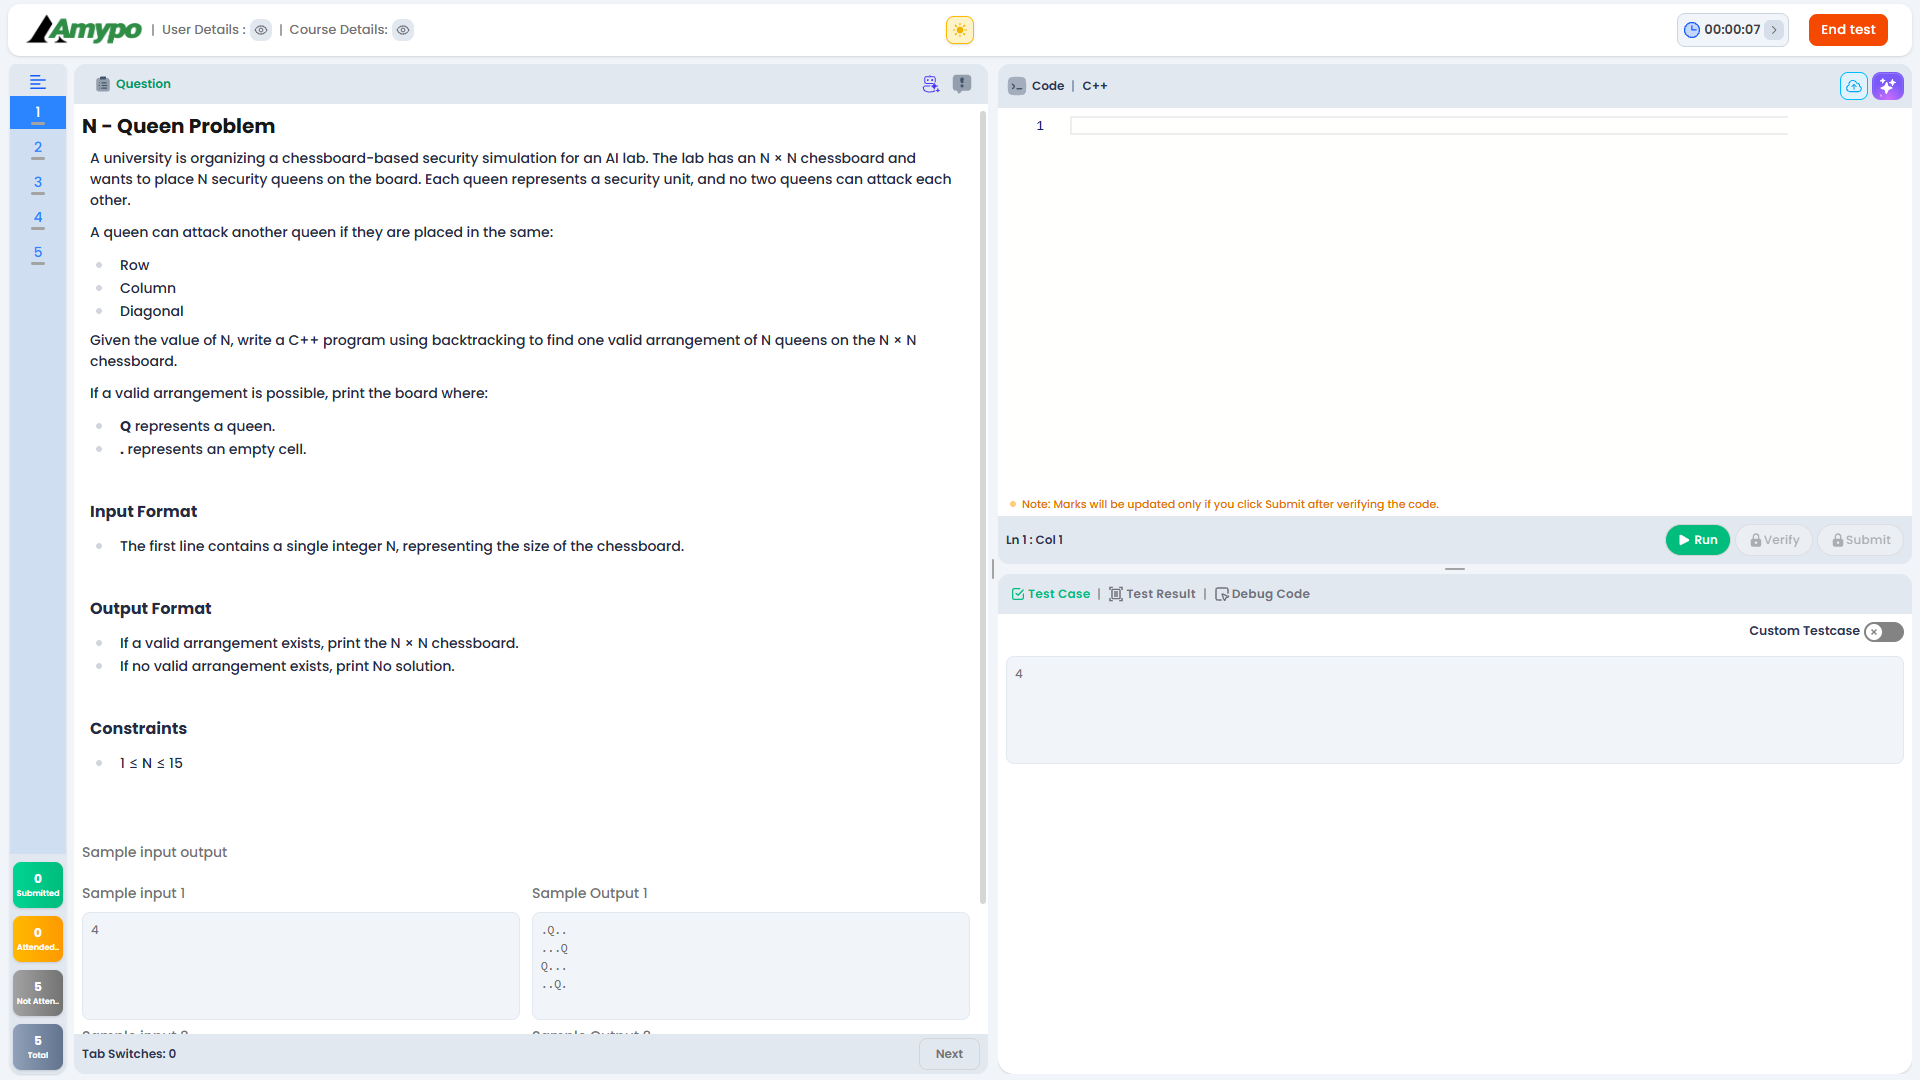
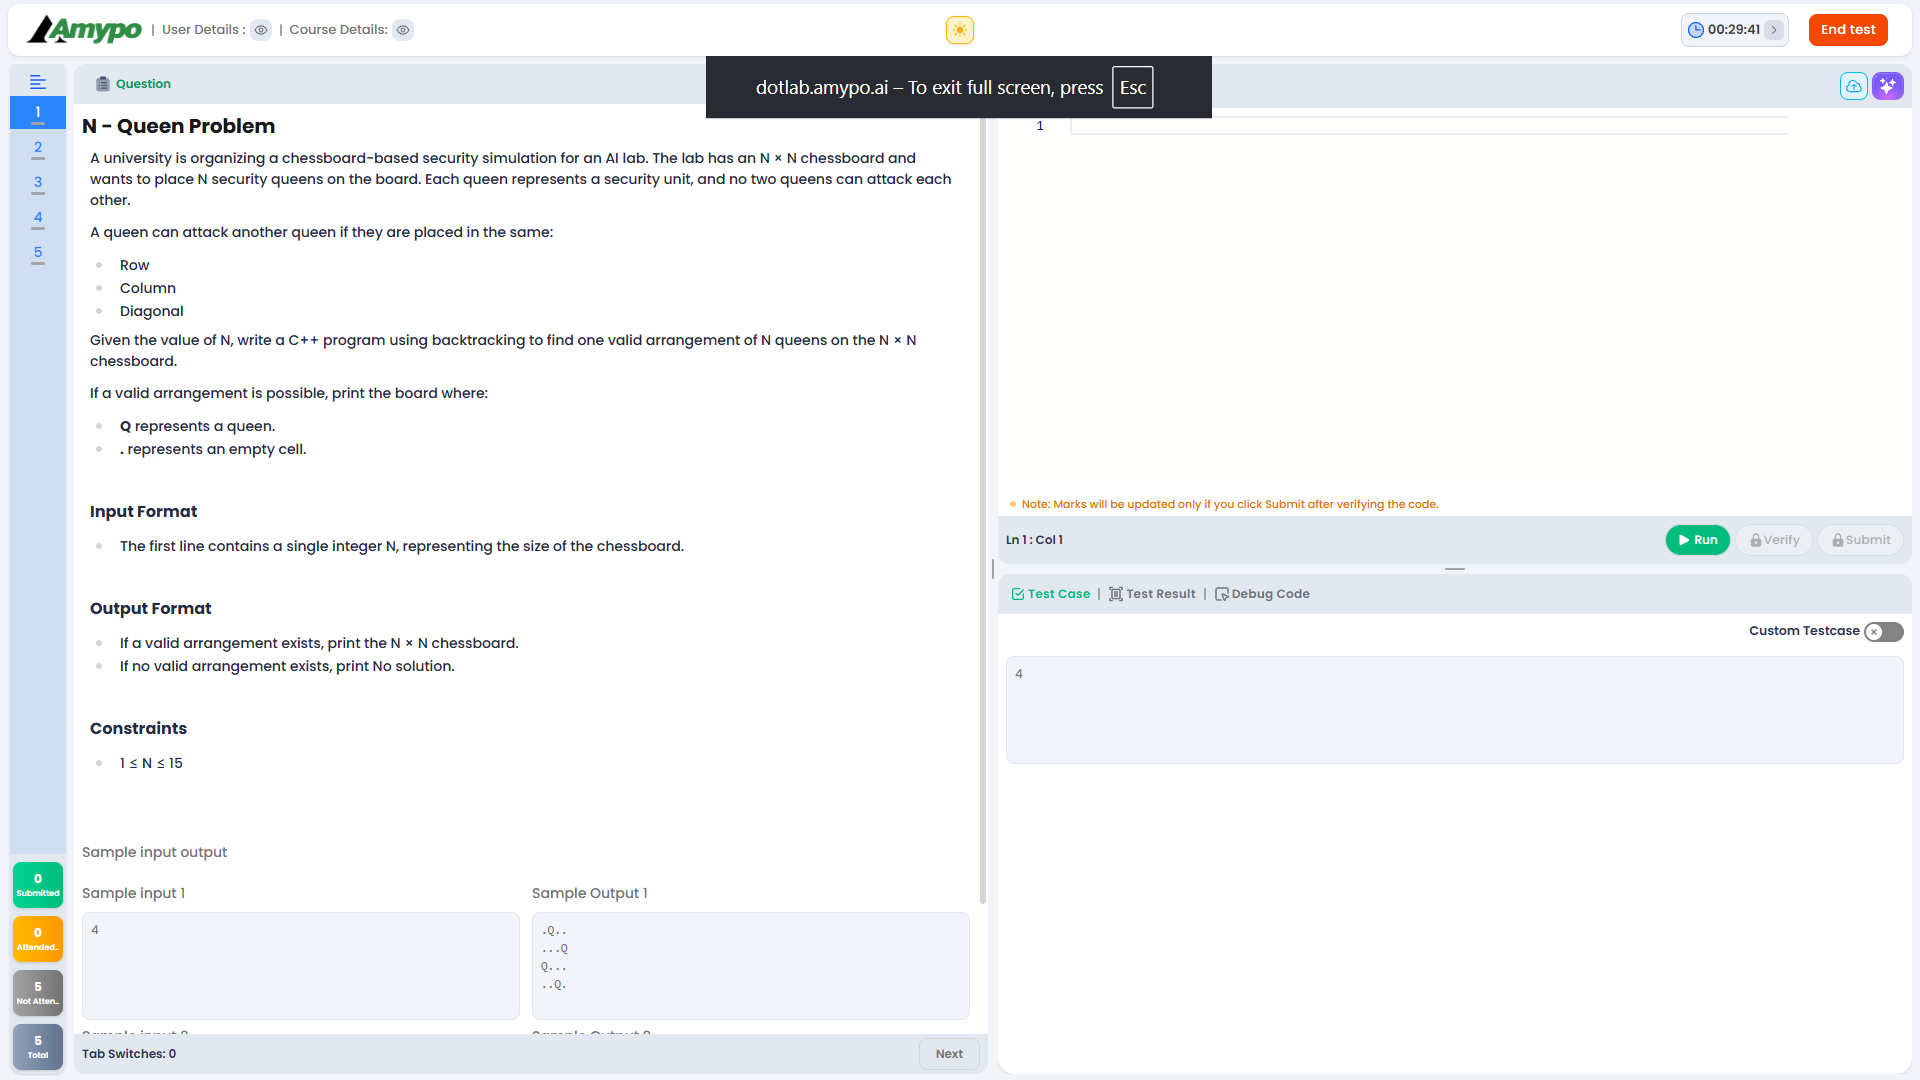
Add Gemini screenshot to code pipeline

Changed region(s): [[0.3438, 0.0306, 0.6562, 0.1222], [0.875, 0.0, 0.9062, 0.0306]]

diff --git a/gemini.py b/gemini.py
@@ -1,0 +1,55 @@
+import os
+import base64
+
+from dotenv import load_dotenv
+from google import genai
+
+
+load_dotenv()
+
+api_key = os.getenv("GEMINI_API_KEY")
+
+if not api_key:
+    raise RuntimeError("GEMINI_API_KEY not found in .env")
+
+client = genai.Client(api_key=api_key)
+
+
+def solve_screen(image_path):
+
+    with open(image_path, "rb") as f:
+        image_data = base64.b64encode(f.read()).decode("utf-8")
+
+    prompt = """
+Look at this screenshot.
+
+Find the programming question shown on the screen.
+
+Determine:
+1. What the question is asking.
+2. Which programming language is required.
+3. What code should be entered into the coding editor.
+
+Return ONLY the final source code.
+
+Do not use Markdown code fences.
+Do not explain anything.
+Do not include any text before or after the code.
+"""
+
+    interaction = client.interactions.create(
+        model="gemini-3.8-flash",
+        input=[
+            {
+                "type": "text",
+                "text": prompt,
+            },
+            {
+                "type": "image",
+                "data": image_data,
+                "mime_type": "image/png",
+            },
+        ],
+    )
+
+    return interaction.output_text

diff --git a/main.py b/main.py
@@ -2,19 +2,38 @@ import pyautogui
 import keyboard
 import time
 
-def capture_screen():
+from gemini import solve_screen
+
+
+def capture_and_solve():
+    print("\nCapturing screen...")
+
     screenshot = pyautogui.screenshot()
     screenshot.save("screen.png")
+
     print("Screenshot captured!")
+    print("Sending screenshot to Gemini...")
+
+    try:
+        code = solve_screen("screen.png")
+
+        print("\n========== GEMINI CODE ==========\n")
+        print(code)
+        print("\n=================================\n")
+
+    except Exception as e:
+        print("\nGemini error:")
+        print(e)
+
 
 print("AI AutoCoder started.")
-print("Press F8 to capture the screen.")
+print("Press F8 to capture screen and solve.")
 print("Press ESC to exit.")
 
 while True:
 
     if keyboard.is_pressed("f8"):
-        capture_screen()
+        capture_and_solve()
         time.sleep(1)
 
     if keyboard.is_pressed("esc"):
